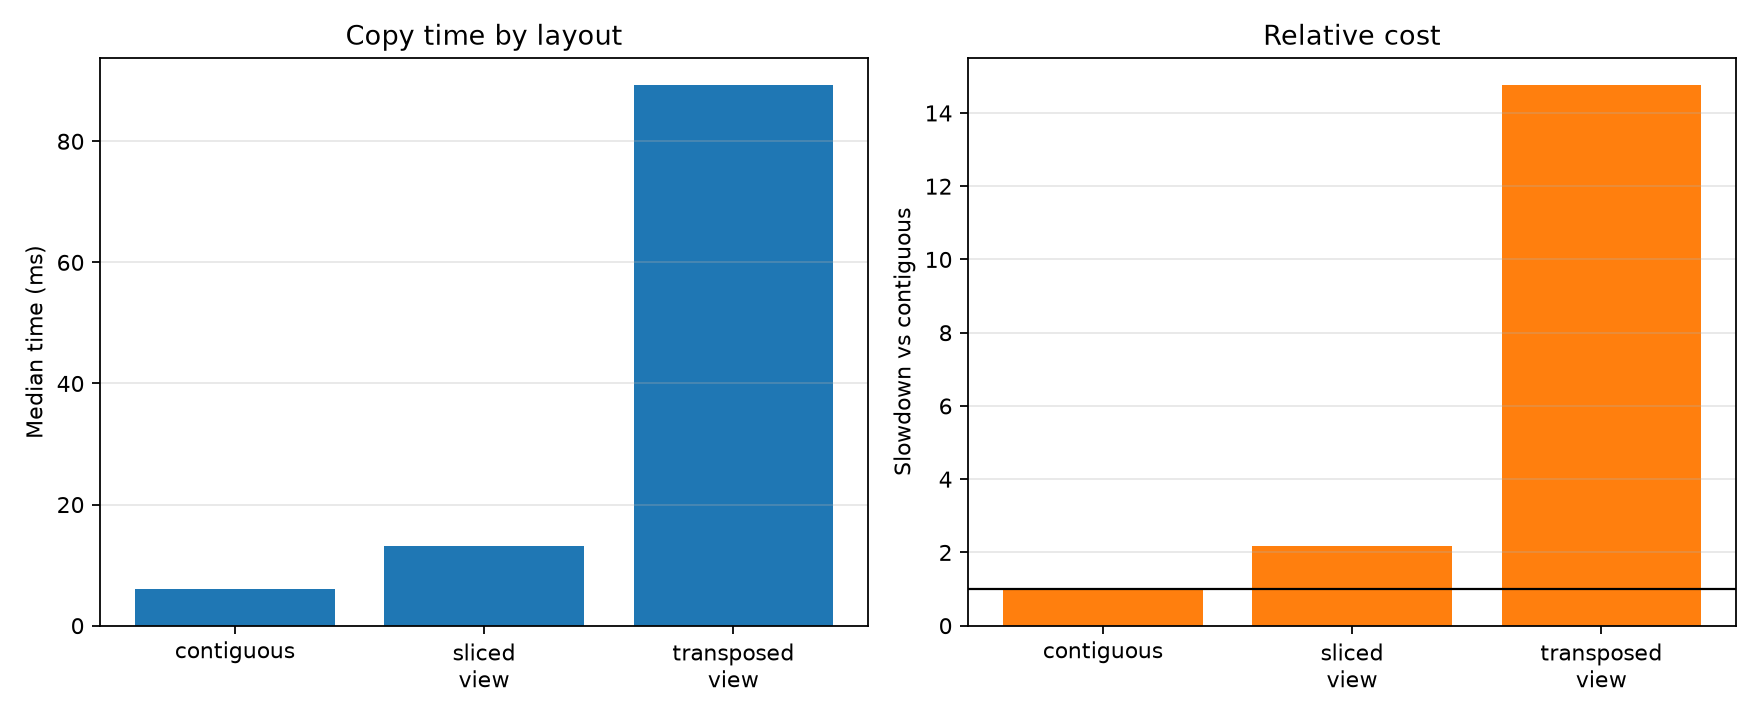
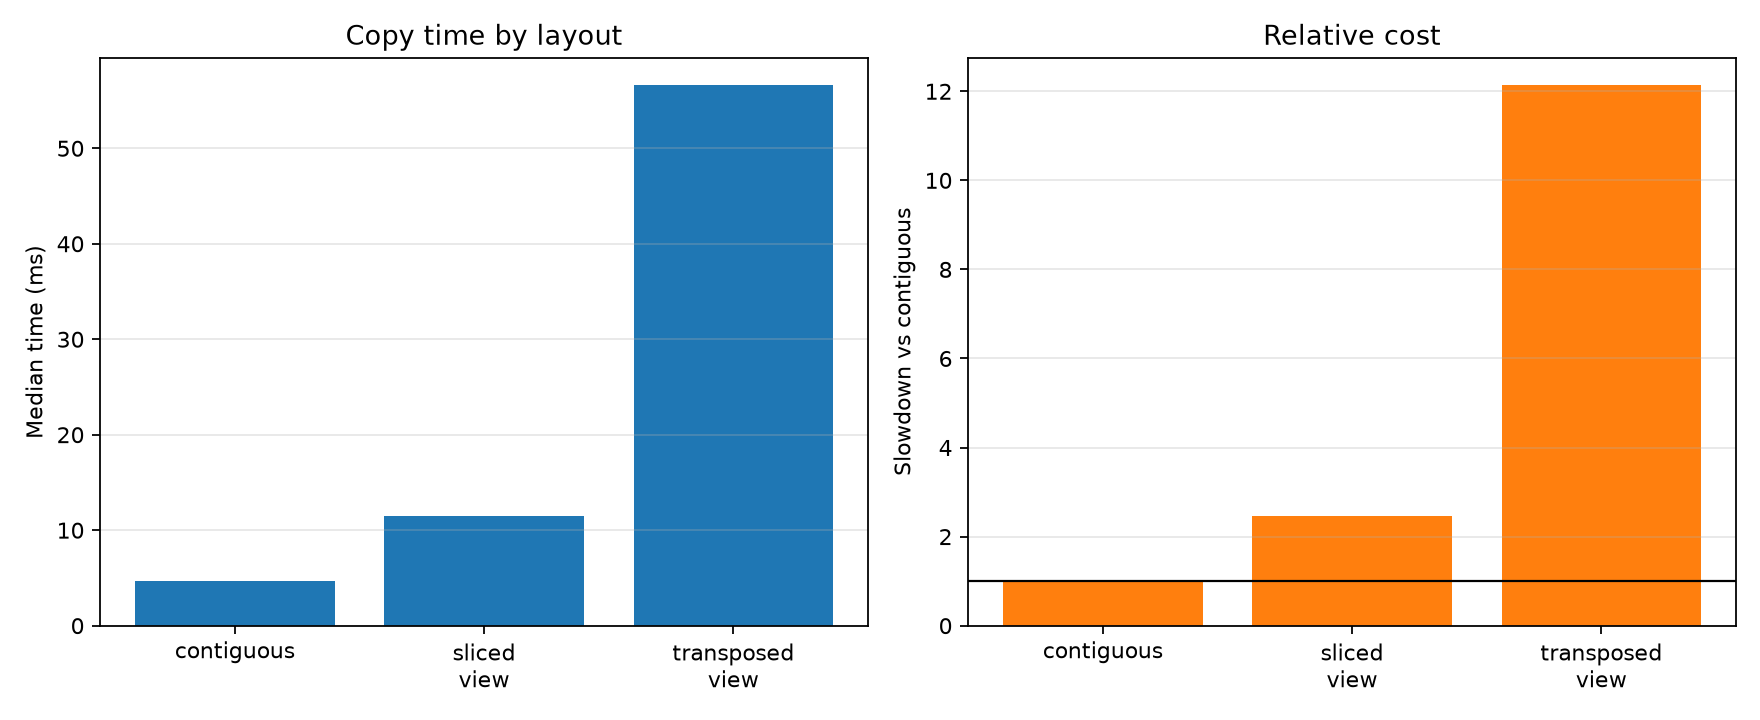
feat: add README and layout visualization for memory layout experiment

diff --git a/experiments/exp06_contiguous_vs_non_contiguous/README.md b/experiments/exp06_contiguous_vs_non_contiguous/README.md
@@ -62,17 +62,17 @@ The contiguous condition should have the lowest median. Both views may be slower
 
 ### 9. Results
 
-Reference run on 2026-07-16 KST; values are medians of 11 repetitions.
+Reference run on 2026-07-17 KST; values are medians of 11 repetitions.
 
 | Condition | Strides (bytes) | C contiguous | F contiguous | Median | Throughput | Slowdown |
 | --- | ---: | :---: | :---: | ---: | ---: | ---: |
-| Contiguous | `(32000, 8)` | Yes | No | 6.048 ms | 1,322.8 M elem/s | 1.00× |
-| Sliced view | `(64000, 16)` | No | No | 13.196 ms | 606.2 M elem/s | 2.18× |
-| Transposed view | `(8, 16000)` | No | Yes | 89.268 ms | 89.6 M elem/s | 14.76× |
+| Contiguous | `(32000, 8)` | Yes | No | 4.664 ms | 1,715.2 M elem/s | 1.00× |
+| Sliced view | `(64000, 16)` | No | No | 11.535 ms | 693.6 M elem/s | 2.47× |
+| Transposed view | `(8, 16000)` | No | Yes | 56.612 ms | 141.3 M elem/s | 12.14× |
 
 ### 10. Discussion
 
-The result supports the hypothesis on this system. The sliced view took about 2.18 times as long as the C-contiguous source. It exposes the same logical elements but has a 16-byte inner stride, so useful reads are separated by unused elements. The transposed view was F-contiguous rather than non-contiguous in both senses, yet it was 14.76 times slower when copied into a C-contiguous destination: the source's unit-stride axis and destination's unit-stride axis do not match.
+The result supports the hypothesis on this system. The sliced view took about 2.47 times as long as the C-contiguous source. It exposes the same logical elements but has a 16-byte inner stride, so useful reads are separated by unused elements. The transposed view was F-contiguous rather than non-contiguous in both senses, yet it was 12.14 times slower when copied into a C-contiguous destination: the source's unit-stride axis and destination's unit-stride axis do not match.
 
 Therefore, a single “contiguous” label is insufficient. C/F order and the compatibility of source and destination traversal axes matter. These timings do not directly measure cache misses, so the stride-based explanation remains an interpretation rather than hardware-counter proof.
 
@@ -139,17 +139,17 @@ NumPy view는 데이터를 복사하지 않고 shape와 stride를 바꿀 수 있
 
 ### 6. 결과
 
-2026-07-16 KST 기준 실행이며 조건별 11회 측정의 중앙값이다.
+2026-07-17 KST 기준 실행이며 조건별 11회 측정의 중앙값이다.
 
 | 조건 | Strides (bytes) | C 연속 | F 연속 | 중앙값 | 처리량 | Slowdown |
 | --- | ---: | :---: | :---: | ---: | ---: | ---: |
-| Contiguous | `(32000, 8)` | 예 | 아니요 | 6.048 ms | 1,322.8 M elem/s | 1.00× |
-| Sliced view | `(64000, 16)` | 아니요 | 아니요 | 13.196 ms | 606.2 M elem/s | 2.18× |
-| Transposed view | `(8, 16000)` | 아니요 | 예 | 89.268 ms | 89.6 M elem/s | 14.76× |
+| Contiguous | `(32000, 8)` | 예 | 아니요 | 4.664 ms | 1,715.2 M elem/s | 1.00× |
+| Sliced view | `(64000, 16)` | 아니요 | 아니요 | 11.535 ms | 693.6 M elem/s | 2.47× |
+| Transposed view | `(8, 16000)` | 아니요 | 예 | 56.612 ms | 141.3 M elem/s | 12.14× |
 
 ### 7. 논의와 결론
 
-이 환경의 결과는 가설을 지지한다. 슬라이스 view는 C-contiguous source보다 약 2.18배 오래 걸렸다. 논리 원소 수는 같지만 안쪽 stride가 16바이트여서 사용하지 않는 원소 사이를 건너뛴다. 전치 view는 F-contiguous이지만 C-contiguous destination과 연속 축이 일치하지 않아 14.76배 오래 걸렸다. 따라서 단순한 연속/비연속 여부뿐 아니라 C/F 순서와 source/destination의 순회 축 호환성이 중요하다. 다만 cache miss를 직접 측정하지 않았으므로 stride에 따른 설명은 하드웨어 카운터로 입증된 결론은 아니다.
+이 환경의 결과는 가설을 지지한다. 슬라이스 view는 C-contiguous source보다 약 2.47배 오래 걸렸다. 논리 원소 수는 같지만 안쪽 stride가 16바이트여서 사용하지 않는 원소 사이를 건너뛴다. 전치 view는 F-contiguous이지만 C-contiguous destination과 연속 축이 일치하지 않아 12.14배 오래 걸렸다. 따라서 단순한 연속/비연속 여부뿐 아니라 C/F 순서와 source/destination의 순회 축 호환성이 중요하다. 다만 cache miss를 직접 측정하지 않았으므로 stride에 따른 설명은 하드웨어 카운터로 입증된 결론은 아니다.
 
 ### 8. 타당성 위협과 향후 작업
 
